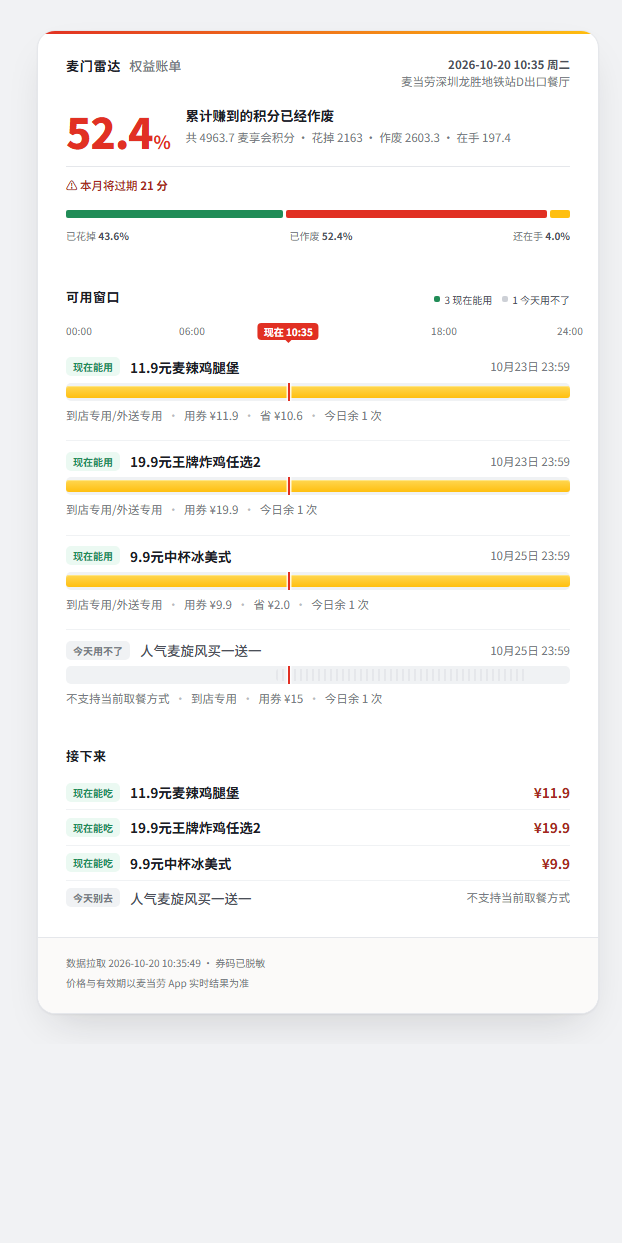
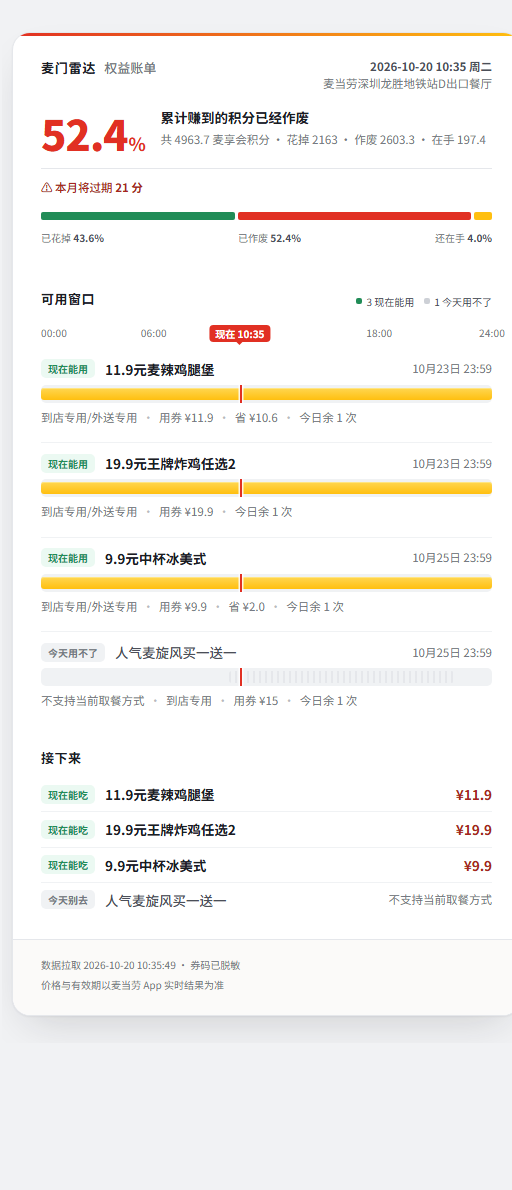
零输入绑店 + 门店级结论每轮点名
绑店不再要求用户打店名：node src/bind.mjs 直接印收藏候选（编号 / 店名 / 地址 /
今天几点能刷），回个编号就落盘。没人知道"麦当劳深圳龙胜地铁站D出口餐厅"的官方写法，
打错一个字就变"查无此店"。多命中只列候选不替用户挑，零命中不编门店——规则在
pickFavorite 里，bind.mjs 只是它和 bindStore 的薄壳（写操作有代码落点，不再靠散文）。

点名改成硬规则：凡门店级结论每一轮都要说清判的是哪家店。storeLine() 取代 needsAnnounce()
——上一版"确认过的店不重复声明"被推翻：用户要的是每条结论都知道作用于哪家店，
不是省一行字。后缀仍区分来历（自动采用标"还没跟你确认过"、临时指定标"不改绑定"），
采用与绑定的区别不许被落盘抹平。

口径表按实测划清，并由闸门机器校验（check-store.mjs 新增【口径路由表】）：
- 门店级：今天吃啥、这张划算吗、上新（两店实测 20 个店独占单品，新品随店变）
- 账户级：领券、券面窗
- 全国：活动日历——campaign-calendar 入参无 storeCode、响应全树无任何地域键，
  给它挂一家店的名比不写口径更误导人，故明说"不分店"；闸门反向断言盯着谁乱标
- 卡片仍脱店名（那是刻意的），点名只发生在对话里

账单抬头的店名不再截断：render-text 原来按 26 显示宽切，16 字的龙胜店名变"…D出口…"，
而账单正是"此刻这家店真能用哪张"，认不出店就无从核对。这一行没有表格要对齐，
挤一行比认错店便宜。README 三张配图随之重出（画布统一 512x1190，propagate 388KB→326KB）。

多店并列按实测降级：同一天两家的放行集合与 top1 省额完全一致，差异一条都没被现有券命中，
等真出现差异样本再说；默认店只有一个，其余留历史，useStore 切默认。

Changed region(s): [[0.0625, 0.0, 0.9688, 0.8395], [0.75, 0.6218, 0.9688, 0.7773], [0.9062, 0.5286, 0.9688, 0.5597]]

diff --git a/SKILL.md b/SKILL.md
@@ -53,11 +53,9 @@ description: 麦门雷达 —— 麦当劳（金拱门 / McDonald's / mcdonalds 
 
 - 采用规则：`state` 里上次用过的那家优先；无历史则取收藏列表第一家。写进 `state` 并起别名。
   这条规则现在由 `src/store.mjs` 的 `resolveStore()` 执行，落盘由 `wake.mjs` 第四步的 `snapshot()` 自动折入——**不再要求模型手改 JSON**。以前没有代码落点，`stores` 永远是空、`needStore` 永远为真，催绑那句每轮都占一行且永远闭不了嘴。
-- 回复里**必须一句明示用的是哪家**（"按你收藏的 XX 店判的"），并留一句"换店说一声"。静默选店比问一句更危险——选错门店会让结论全错而用户不知情。
-  判据是 `src/store.mjs` 的 `needsAnnounce()`，看的是这家店**有没有被用户确认过**（`resolveStore` 返回的 `origin`），不是本轮怎么取到它的。自动采用的店落盘后仍是"未确认"，不许在第二轮升格成"按你绑定的"——那等于系统替用户做了他没做过的决定。
-- 用户中途点了别的店 → 立刻切换覆盖，不追问、不啰嗦。
-
-**无收藏**才开口问一次（给城市或门店名）；本轮先给账户级结论，并标注"未绑店，以下为券包字段推断，未经门店过滤确认"。
+- **每一轮都要点名**：`src/store.mjs` 的 `storeLine()` 产出一行门店标识，不带就不算答完（2026-10-20 硬规则）。后缀按这家店的来历不同而不同——按收藏自动采用的标"还没跟你确认过"，本轮临时指定的标"不改绑定"，确认绑定过的只点名。
+  采用与绑定是两件事：自动采用的店落盘后 `origin` 仍是 `favorites`，不许在第二轮升格成"你绑定的"——那等于系统替用户做了他没做过的决定。要升格就让用户确认一次：`node src/bind.mjs <编号>`。
+- **无收藏**才开口问一次（给城市或地标，别要求店名）；本轮先给账户级结论，并标注"未绑店，以下按券包字段推断，未经门店过滤确认"。
 
 > state 落不了盘时（对话层不写文件）退化：本次会话内记住已选定的门店，**不再重复追问**。
 
@@ -102,17 +100,19 @@ description: 麦门雷达 —— 麦当劳（金拱门 / McDonald's / mcdonalds 
 
 ## 按意图选路
 
-| 用户说的是 | 调用链 | 给什么 |
-|---|---|---|
-| 今天吃啥 / 推荐 | 唤醒四步 → `node src/eat.mjs`（写死，见「今天吃啥」节） | 官方放行集合里真实增益最大的那一张 + 到手价 + 这家店的可刷时段 |
-| 这张券划算吗 | `query-store-coupons` 取 `products[].productCode` → join `query-meals` → `couponLadder()` | 原价/现价/券价 + **真实增益**（与「今天吃啥」共用同一函数，不另设口径），见下 |
-| 为什么用不了 | 四态 `reasons` + `beTypes` 差集 | 人话原因 + 换场景能否救 + 转赠出路 |
-| 积分能换啥 | `query-my-account` + `mall-points-products` | 按 元值/积分 性价比选锚点做具象化 |
-| 替我领取优惠券 | `available-coupons` 报数 → 等用户回「领」 → `auto-bind-coupons` → 再查一次做 diff | 新增哪几张、哪几张大概用不上 |
-| 绑店 / 换店 / 出差 | 六步流程，见下「绑店 / 换店」节 | 候选经用户确认后写 state，起别名 |
-| 生成卡片 | 同一 model；账单版 `share:true`，传播版 `share:true + keepTitles:true` | 两种脱敏口径的 HTML，见下 |
-| 最近有啥活动 | `campaign-calendar` | 活动日历速览（次要模块，问才答） |
-| 上新了什么 / 最近上新 | `query-meals` 引用 tags 精确等于 `上新` | 当期全量新品：现价 + 麦金卡价（如有）；权益账单里常驻一段 |
+**口径列是硬要求**：凡 `门店级`，回复里必须有一行说清判的是哪家店（`src/store.mjs` 的 `storeLine()`，账单卡抬头也印全名，不截断）；凡 `账户级` / `全国`，必须明说**不分店**——给全国同步的东西安一家店的名字，比不写口径更误导人。这一张表由 `node src/check-store.mjs` 的【口径路由表】机器校验。
+
+| 用户说的是 | 调用链 | 给什么 | 口径 |
+|---|---|---|---|
+| 今天吃啥 / 推荐 | 唤醒四步 → `node src/eat.mjs`（写死，见「今天吃啥」节） | 官方放行集合里真实增益最大的那一张 + 到手价 + 这家店的可刷时段 | 门店级 |
+| 这张券划算吗 | `query-store-coupons` 取 `products[].productCode` → join `query-meals` → `couponLadder()` | 原价/现价/券价 + **真实增益**（与「今天吃啥」共用同一函数，不另设口径），见下 | 门店级 |
+| 为什么用不了 | 四态 `reasons` + `beTypes` 差集 | 人话原因 + 换场景能否救 + 转赠出路 | 账户级＋门店级（券面窗不分店，「这家几点能刷」分店） |
+| 积分能换啥 | `query-my-account` + `mall-points-products` | 按 元值/积分 性价比选锚点做具象化 | 账户级＋全国（积分余额是账户的，商城目录不分店） |
+| 替我领取优惠券 | `available-coupons` 报数 → 等用户回「领」 → `auto-bind-coupons` → 再查一次做 diff | 新增哪几张、哪几张大概用不上 | 账户级（入参无 storeCode，不分店） |
+| 绑店 / 换店 / 出差 | 零输入流程，见下「绑店 / 换店」节 | 收藏候选编号 → 确认 → `bindStore` 落盘 | 门店级（本行就是定这家店） |
+| 生成卡片 | 同一 model；账单版 `share:true`，传播版 `share:true + keepTitles:true` | 两种脱敏口径的 HTML，见下 | 门店级数据／卡片脱店名——对话里那句点名仍要说 |
+| 最近有啥活动 | `campaign-calendar` | 活动日历速览（次要模块，问才答） | 全国（实测入参无 storeCode、响应无任何地域键，**不许**挂店名） |
+| 上新了什么 / 最近上新 | `query-meals` 引用 tags 精确等于 `上新` | 当期全量新品：现价 + 麦金卡价（如有）；权益账单里常驻一段 | 门店级（实测两店有 20 个店独占单品，新品随店不同） |
 
 **券的真实增益**是本 skill 的招牌诚实：`原价 − 券价` 是营销数字，`菜单现价 − 券价` 才是用户真省到的。两者都报，差得多就直说"别为它专门跑一趟"。
 
@@ -131,14 +131,16 @@ description: 麦门雷达 —— 麦当劳（金拱门 / McDonald's / mcdonalds 
 
 ## 绑店 / 换店（写死流程，别自主发挥）
 
-用户只会给一句话（如"深圳龙胜地铁站店"），按序走，六步一步不跳：
+**绝不让用户打店名**——没人知道"麦当劳深圳龙胜地铁站D出口餐厅"的官方写法，打错一个字就变"查无此店"。顺序是**先给候选让人挑，实在没候选才问**。
 
-1. **解析**：拆出 `城市` 与 `关键词`（去掉"店 / 餐厅 / 麦当劳"这类后缀——"深圳龙胜地铁站店" → city=深圳，keyword=龙胜地铁站）。拆不出城市只问一句"哪个城市"，其余不问。
-2. **查询**：`query-nearby-stores(searchType=2, city, keyword)`；用户说"我收藏那家"时用 `searchType=1` 读收藏对照。
-3. **匹配**：名称含关键词的唯一命中 → 直接作候选；多个命中 → 按名称相似度列前 3 个（店名 + 地址）让用户选；零命中 → 复述一次理解，请用户补地标或换说法。**不猜、不编门店。**
-4. **确认**：候选念给用户——"是这家吗：麦当劳深圳龙胜地铁站D出口餐厅（XX 路）"——**得到确认才算绑定**。唯一命中也走这步：绑错店的代价大于多问一句。
-5. **落盘**：调 `src/store.mjs` 的 `bindStore(state, {code, name, address}, {alias, city})` 写进 `state/maimen-radar.json` 的 `stores`（`{alias, code, name, city}`，与 `src/state.mjs` 一致），回复一句"绑好了，以后按这家算"。**别手改 JSON**——手改的那条路没有代码校验，也是以前 `stores` 一直为空的成因。`city` 只在用户说过城市时才写：接口不返回城市（实测），从店名里正则反推是猜。**只有走完第 4 步拿到确认才调它**——`bindStore` 默认记 `source: 'user'`，这是唯一允许以后静默沿用这家店的凭据。
-6. **换店** = 同流程覆盖旧记录。绑定完成后 `needStore` 自然消失，可按引导优先级表顺势给「今天吃啥」。
+1. **先读收藏**：`node src/bind.mjs` 直接印编号 + 店名 + 地址 + 今天几点能刷。有收藏 → 用户回个编号就进第 4 步，**一个字都不用打**。
+2. **无收藏才查位置**：`query-nearby-stores(searchType=2, city, keyword)`。拆出城市与关键词（去掉"店 / 餐厅 / 麦当劳"这类后缀——"深圳龙胜地铁站店" → city=深圳，keyword=龙胜地铁站）；拆不出城市只问一句"哪个城市"，其余不问。
+3. **匹配**（`src/store.mjs` 的 `pickFavorite`，编号 1 起 / 编码 / 关键词三选一）：唯一命中 → 直接作候选；多命中 → 列候选让用户挑，**不替用户选**；零命中 → 复述一次理解，请用户补地标或换说法。**不猜、不编门店。**
+4. **确认**：候选念给用户——"是这家吗：麦当劳深圳龙胜地铁站D出口餐厅（XX 路）· 今天午餐段 10:44 起能刷"——店名、地址、今日时段一次说完。**得到确认才算绑定**，唯一命中也走这步：绑错店的代价大于多问一句。
+5. **落盘**：`node src/bind.mjs <编号|编码> [--alias 家] [--city 深圳]`，内部走 `bindStore(state, {code, name, address}, {alias, city})` 写进 `state/maimen-radar.json` 的 `stores`。**别手改 JSON**——手改那条路没有代码校验，正是以前 `stores` 恒空、催绑永远走不完的成因。`city` 只在用户说过城市时才写：接口不返回城市（实测），从店名里正则反推是猜。用户敲下这条命令就是确认，所以记 `source: 'user'`——这是唯一允许以后静默沿用这家店的凭据。
+6. **换店 / 出差**：再跑一次第 5 步即覆盖默认店，**历史不丢**；要在已绑过的几家之间来回切用 `useStore(state, code)`。绑定完成后 `needStore` 自然消失，可按引导优先级表顺势给「今天吃啥」。
+
+> 多店并列**不是**要解决的问题（2026-10-20 决策）：实测同一天两家的放行集合与 top1 省额完全一致，差异只落在 20 个店独占单品 / 17 个价差上，而手里这批券一条都没命中。默认店只有一个、其余留历史，加上"每轮点名"这条，用户随时知道判的是哪家——多店 UI 等真出现差异样本再说。
 
 ## 输出形状
 

diff --git a/README.md b/README.md
@@ -94,7 +94,7 @@
 | 4 | 券值不值 | `这张券划算吗` | 原价 / 菜单现价 / 券价三档 + 真实增益 |
 | 5 | 到手价 | `算到手价` | 让服务端把带券成交价算出来；券没生效它会直说没生效 |
 | 6 | 抢救 | `麦旋风那张为什么用不了` | 人话原因 + 换个取餐方式能不能救 + 能不能转赠止损 |
-| 7 | 门店 | `绑一下公司那家店` | 按城市+关键词查店 → 你确认 → 以后按这家算；换店一句话覆盖 |
+| 7 | 门店 | `绑一下公司那家店` | 先给你收藏列表的**编号候选**（店名+地址+今天几点能刷），回个数字就绑好——不用打店名；没收藏才问城市+地标 |
 | 8 | 传播 | `生成卡片` | 两种卡：账单分享版（全脱敏）与传播版（真券名 + 官方券面图），浏览器打开截图就能发群 |
 | 9 | 次要 | `最近有啥活动` / `积分能换啥` | 活动日历、把作废积分换算成"够换几份饭"（问才答，不当主打） |
 | 10 | 上新 | `上新了什么` | 当期官方"上新"标签的全量新品（现价 + 麦金卡价如有）；权益账单里也常驻一段，不用问就在 |
@@ -179,7 +179,7 @@ printf 'MCD_MCP_TOKEN=粘贴你的Token\n' > ~/.workbuddy/skills/maimen-radar/.e
 ## 第一次用会发生什么
 
 1. **先给你东西看**——券包全景 + 积分作废了多少。这一步不需要门店，也不问你任何问题。
-2. **再定门店**——有收藏门店就直接采用并告诉你是哪家；没有才问你一句城市或店名。「今天吃啥」这类问题需要它才能回答。
+2. **再定门店**——有收藏门店就直接采用并每一轮点明是哪家；没有才问你一句城市或地标（从不要求你打店名）。「今天吃啥」这类问题需要它才能回答。
 3. **之后每次开口**——先补算这段时间发生了什么，再答你问的那句。
 
 （完整判据与话术见 [`SKILL.md`](SKILL.md)「冷启动引导」。）
@@ -216,6 +216,7 @@ node src/demo.mjs              # 出上面那份权益账单
 node src/demo.mjs --share      # 脱敏分享版卡片 → dist/
 node src/wake.mjs              # 唤醒四步：补算播报 → 四态 → 账单 → 写回 state
 node src/eat.mjs               # 「今天吃啥」：官方放行集合里真实增益最大的那一张
+node src/bind.mjs              # 零输入绑店：列出收藏候选（编号+地址+今日时段），回个数字就绑好
 node src/check.mjs             # 断言：模型判定的可用集合 == 官方放行集合，且 top1 在其中
 node src/check-store.mjs       # 断言：判的门店来自 state 绑定（不是收藏第一条），且菜单按 storeCode 同源取
 node src/preflight.mjs         # 提交前自检：必备文件、密钥泄漏、断链
@@ -283,9 +284,10 @@ maimen-radar/
 ├── src/
 │   ├── model.mjs                唯一事实来源：四态判定、券认亲、价格阶梯、pickTop1 排序
 │   ├── state.mjs                惰性重放：快照、diff、≤3 行播报
-│   ├── store.mjs                门店解析层：绑过哪家就按哪家判，采用收藏店必须明示
+│   ├── store.mjs                门店解析层：绑过哪家就按哪家判，每轮点名（storeLine）
 │   ├── wake.mjs                 唤醒四步入口 → 权益账单
 │   ├── eat.mjs                  「今天吃啥」唯一产出路径
+│   ├── bind.mjs                 零输入绑店：收藏候选给编号，回个数字就落盘
 │   ├── demo.mjs                 渲染演示（--share 出账单分享版，--propagate 出传播版）
 │   ├── render-text.mjs          使用面版式：纯 Unicode，32 格时段条
 │   ├── render-html.mjs          账单分享面：小票卡片

diff --git a/references/fields.md b/references/fields.md
@@ -127,6 +127,7 @@
 
 ## 活动日历（`campaign-calendar`）
 
+- **不分店，也不分城**（✅ 2026-10-20 实测）：入参 schema 里**没有 `storeCode`**，响应全树扫下来**一个地域键都没有**（无 city/region/store/area/province）。所以这句结论不许挂门店名——SKILL.md 路由表把它标成 `全国`，`src/check-store.mjs` 有断言专门盯这一点：谁把 campaign-calendar 或 mall-points-products 标成门店级，闸门就红。
 - 结构是 `{ currentTime, dailyList[], subscribedEvents[] }`。
 - `dailyList[].events[]` 的正文在 **`articleDto.title` / `articleDto.content`**；`activityTitle` 常为空字符串。
 - `specifiedDate`（`yyyy-MM-dd`）可锚定到某天及前后各一个有活动的日子。
